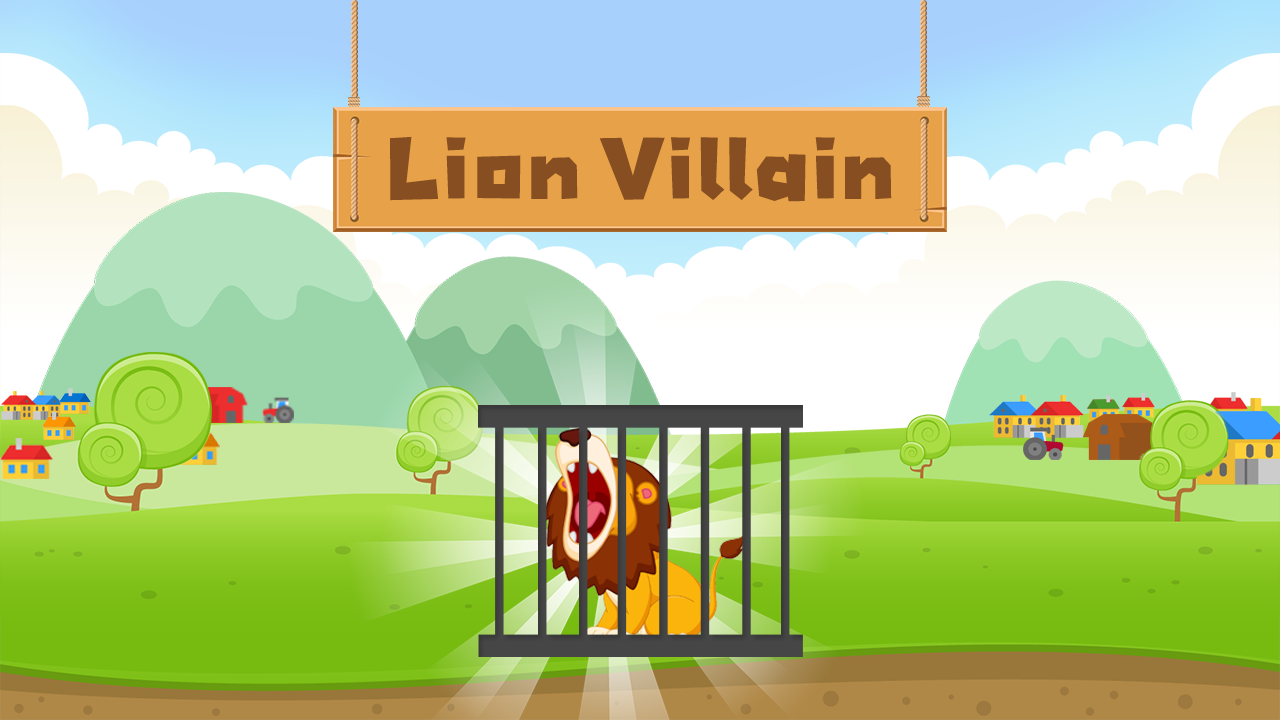
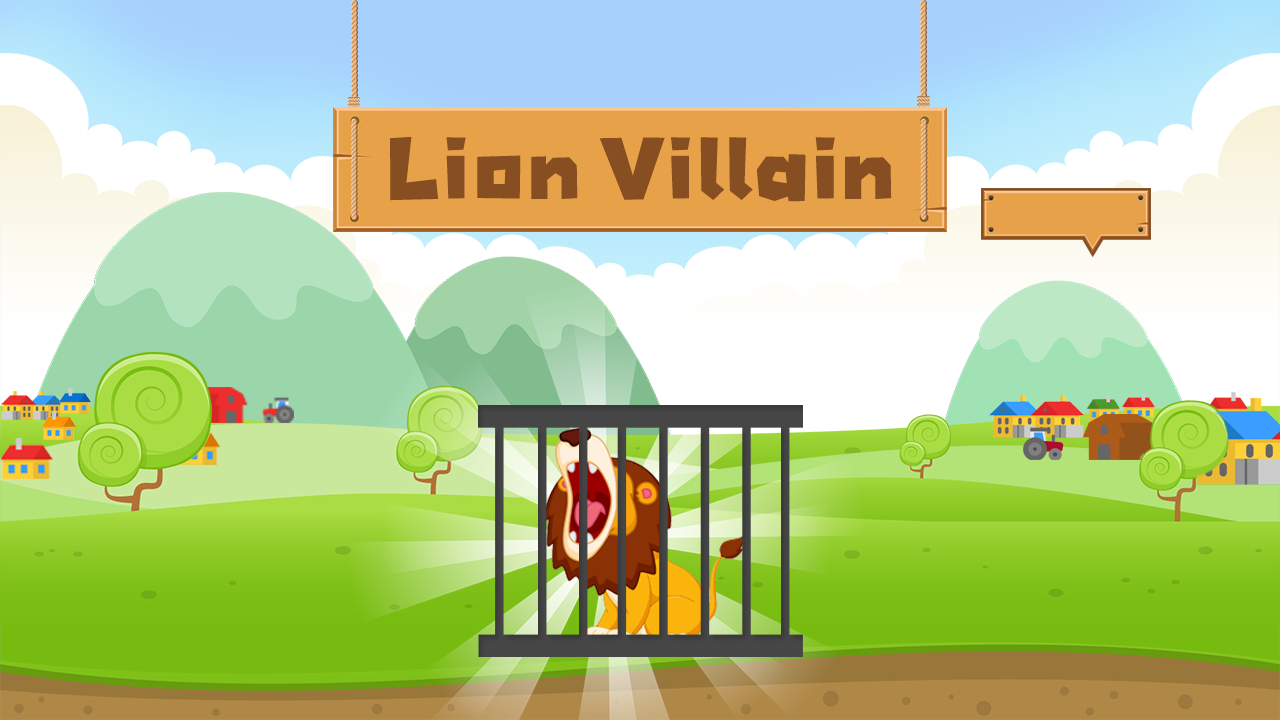
add insert IP box

Changed region(s): [[0.75, 0.2444, 0.9062, 0.3667]]

diff --git a/src/gameUI/OnlineGame.java b/src/gameUI/OnlineGame.java
@@ -203,8 +203,8 @@ public class OnlineGame implements Runnable, Observer, KeyListener {
 	public void play() {
 		thread.start();
 		game.V2setDx(30);
-		game.V1setX(360);
-		game.V2setX(360); // set first lion's position ; panel center:493
+		game.V1setX(420);
+		game.V2setX(420); // set first lion's position ; panel center:493
 		lion.setBounds(game.V2getX(), 375, 521, 253);
 		if (me.equals("p1")) {
 			v1DistanceLabel.setText(String.format("Opponent's Distance: %d meter", game.V2getX() + 0));
@@ -254,7 +254,7 @@ public class OnlineGame implements Runnable, Observer, KeyListener {
 			IndexUI ui = new IndexUI();
 			MainFrame.setPanel(ui.getPanel());
 		});
-		homeButton.setBounds(560,540, 204, 87);
+		homeButton.setBounds(560, 540, 204, 87);
 		panel.add(homeButton);
 		panel.add(end);
 
@@ -276,25 +276,20 @@ public class OnlineGame implements Runnable, Observer, KeyListener {
 
 	private boolean isGameEnd() {
 		if (game.V2getX() <= 0 || game.V1getX() <= 0) {
-			System.out.println("isGameEnd(): true");
 			return true;
-		}System.out.println("isGameEnd(): false");
+		}
 		return false;
 	}
 
 	private void v2push() {
 		answerField.setText("");
-		System.out.print("V2 push ");
 		game.V2push();
-		System.out.println("V2push(): " + game.V1getX());
 		lion.setLocation(game.V1getX(), 375);
 	}
 
 	private void v1push() {
 		answerField.setText("");
-		System.out.print("V1 push ");
 		game.V1push();
-		System.out.println("V1push(): " + game.V1getX());
 		lion.setLocation(game.V1getX(), 375);
 	}
 
@@ -324,15 +319,12 @@ public class OnlineGame implements Runnable, Observer, KeyListener {
 		if (arg instanceof SendData) {
 			SendData data = (SendData) arg;
 			if (data.status.equals("win")) {
-				System.out.println("win >" + data.playerName);
 				endLabel = new JLabel(winImg);
 				end.add(endLabel);
 			} else if (data.status.equals("lose")) {
-				System.out.println("lose >" + data.playerName);
 				endLabel = new JLabel(loseImg);
 				end.add(endLabel);
 			} else if (data.status.equals("draw")) {
-				System.out.println("draw >" + data.playerName);
 				endLabel = new JLabel(drawImg);
 				end.add(endLabel);
 			} else if (data.playerName.equals("p1")) {
@@ -343,18 +335,17 @@ public class OnlineGame implements Runnable, Observer, KeyListener {
 				answer = 9999;
 			}
 			if (isGameEnd() && !data.status.equals("win") && !data.status.equals("lose")) {
-				System.out.println("-End-");
 				gameEnd("");
-				if(game.V2getX() <= 0) {
+				if (game.V2getX() <= 0) {
 					gameClient.setPlayerName("p2");
-				}else if(game.V1getX() <= 0) {
+				} else if (game.V1getX() <= 0) {
 					gameClient.setPlayerName("p1");
 				}
 				gameClient.setStatus("End");
 				gameClient.sendMessage();
 				thread.stop();
 			}
-			
+
 		}
 		if (me.equals("p1")) {
 			v1DistanceLabel.setText(String.format("Opponent's Distance: %d meter", game.V2getX() + 0));

diff --git a/src/gameUI/IndexUI.java b/src/gameUI/IndexUI.java
@@ -1,19 +1,25 @@
 package gameUI;
 
+import java.awt.Color;
+import java.awt.Component;
 import java.awt.Graphics;
+import java.awt.Insets;
 import java.awt.event.MouseEvent;
 import java.awt.event.MouseListener;
 import java.awt.image.BufferedImage;
 import java.io.IOException;
 
 import javax.imageio.ImageIO;
+import javax.swing.BorderFactory;
 import javax.swing.ImageIcon;
 import javax.swing.JButton;
 import javax.swing.JPanel;
 import javax.swing.JTextField;
+import javax.swing.border.Border;
 
 import Connection.GameClient;
 import Connection.SendData;
+import gameUI.InsertNameUI.JTextFieldLimit;
 import javafx.beans.InvalidationListener;
 import javafx.beans.Observable;
 import javafx.collections.SetChangeListener;
@@ -60,7 +66,38 @@ public class IndexUI{
 		panel.add(single);
 		
 		insertIP = new JTextField();
-		insertIP.setBounds(820, 390, 343, 48);
+		insertIP.setBounds(1005, 196, 125, 35);
+		insertIP.setForeground(Color.gray);
+		insertIP.setText(" Insert Sever's IP");
+		insertIP.setBorder(BorderFactory.createLineBorder(Color.black));
+		insertIP.addMouseListener(new MouseListener() {
+			
+			@Override
+			public void mouseReleased(MouseEvent e) {
+				
+			}
+			
+			@Override
+			public void mousePressed(MouseEvent e) {
+				insertIP.setText("");
+				insertIP.setForeground(Color.black);
+			}
+			
+			@Override
+			public void mouseExited(MouseEvent e) {
+				
+			}
+			
+			@Override
+			public void mouseEntered(MouseEvent e) {
+				
+			}
+			
+			@Override
+			public void mouseClicked(MouseEvent e) {
+				
+			}
+		});
 		panel.add(insertIP);
 		
 		ImageIcon img2 = new ImageIcon(getClass().getResource("/res/player2_v4.png"));
